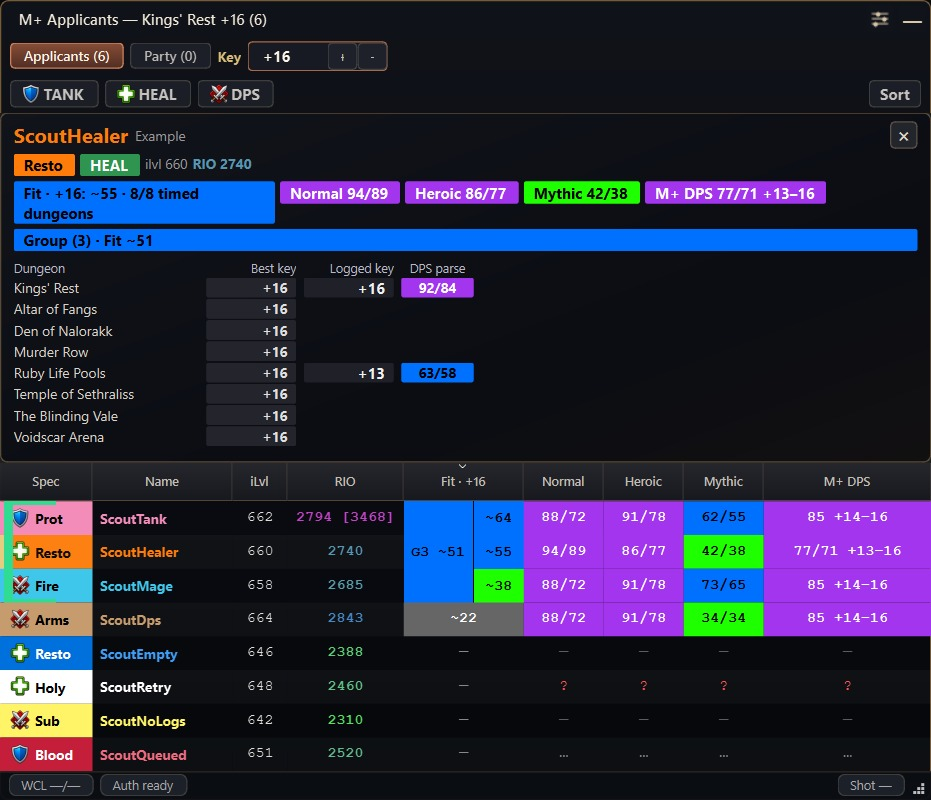
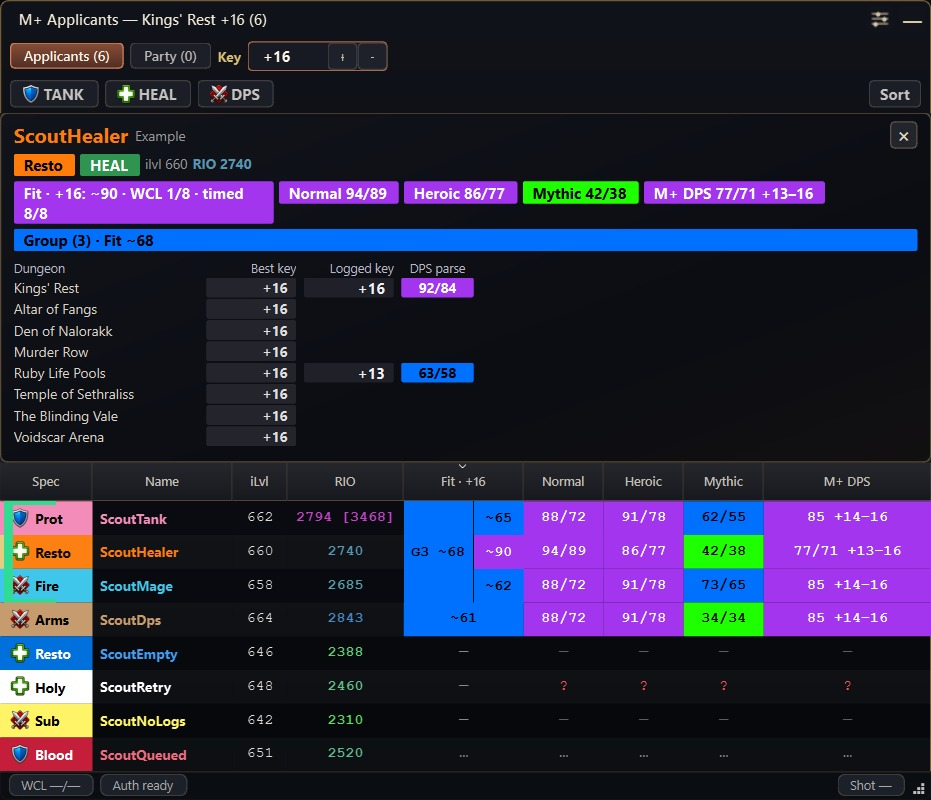
docs: describe performance-based Mythic+ Fit [skip ci]

Changed region(s): [[0.0, 0.2188, 0.8722, 0.3125], [0.4361, 0.6562, 0.5918, 0.8125]]

diff --git a/README.md b/README.md
@@ -85,13 +85,16 @@ Normal, Heroic, Mythic, and M+ results use the applying specialization.
 WCL percentiles keep their usual colours. Missing logs are marked as missing;
 tooltips explain best/median values and limited samples.
 
-**Fit**, shown as a coloured estimate such as **~65**, describes verified in-time
-key experience for Mythic+ or available raid output evidence. It is not an overall
+**Fit**, shown as a coloured estimate such as **~65**, combines applying-spec
+WCL damage around the target key with verified in-time RaiderIO experience for
+Mythic+, or available raid output evidence. It is not an overall
 skill rating, success probability or Warcraft Logs percentile. Missing evidence
 stays unknown; incomplete grouped applications show `partial`. Hover Fit for
 sources, recorded coverage, sample counts and limitations. Applications default
 to the target estimate; click a WCL or RIO heading to compare that metric instead.
-Untimed keys, WCL logs and general rating do not produce M+ Fit.
+Nearby WCL performance is the primary M+ component; timed experience provides
+additional support. If only one source is available, Fit identifies it. Untimed
+keys and general rating do not establish successful key experience.
 Optional local RaiderIO data adds dungeon, raid and main-score context.
 
 Party also shows raid Fit without a Group Finder listing. Inside a raid it uses
@@ -99,8 +102,9 @@ the instance difficulty; outside it uses the selected Normal, Heroic or Mythic
 raid difficulty. Click a column heading to sort and click again to reverse it.
 
 **M+ WCL values measure damage for every role**, including tanks and healers.
-They do not measure healing, survival, interrupts, or other utility, and do not
-change M+ Fit.
+They do not measure healing, survival, interrupts, or other utility. Fit uses the
+selected logged brackets within two levels of the target; farther fallback logs
+remain visible as context.
 ApplicantScout does not auto-invite players or automate gameplay; you choose
 whom to invite.
 
